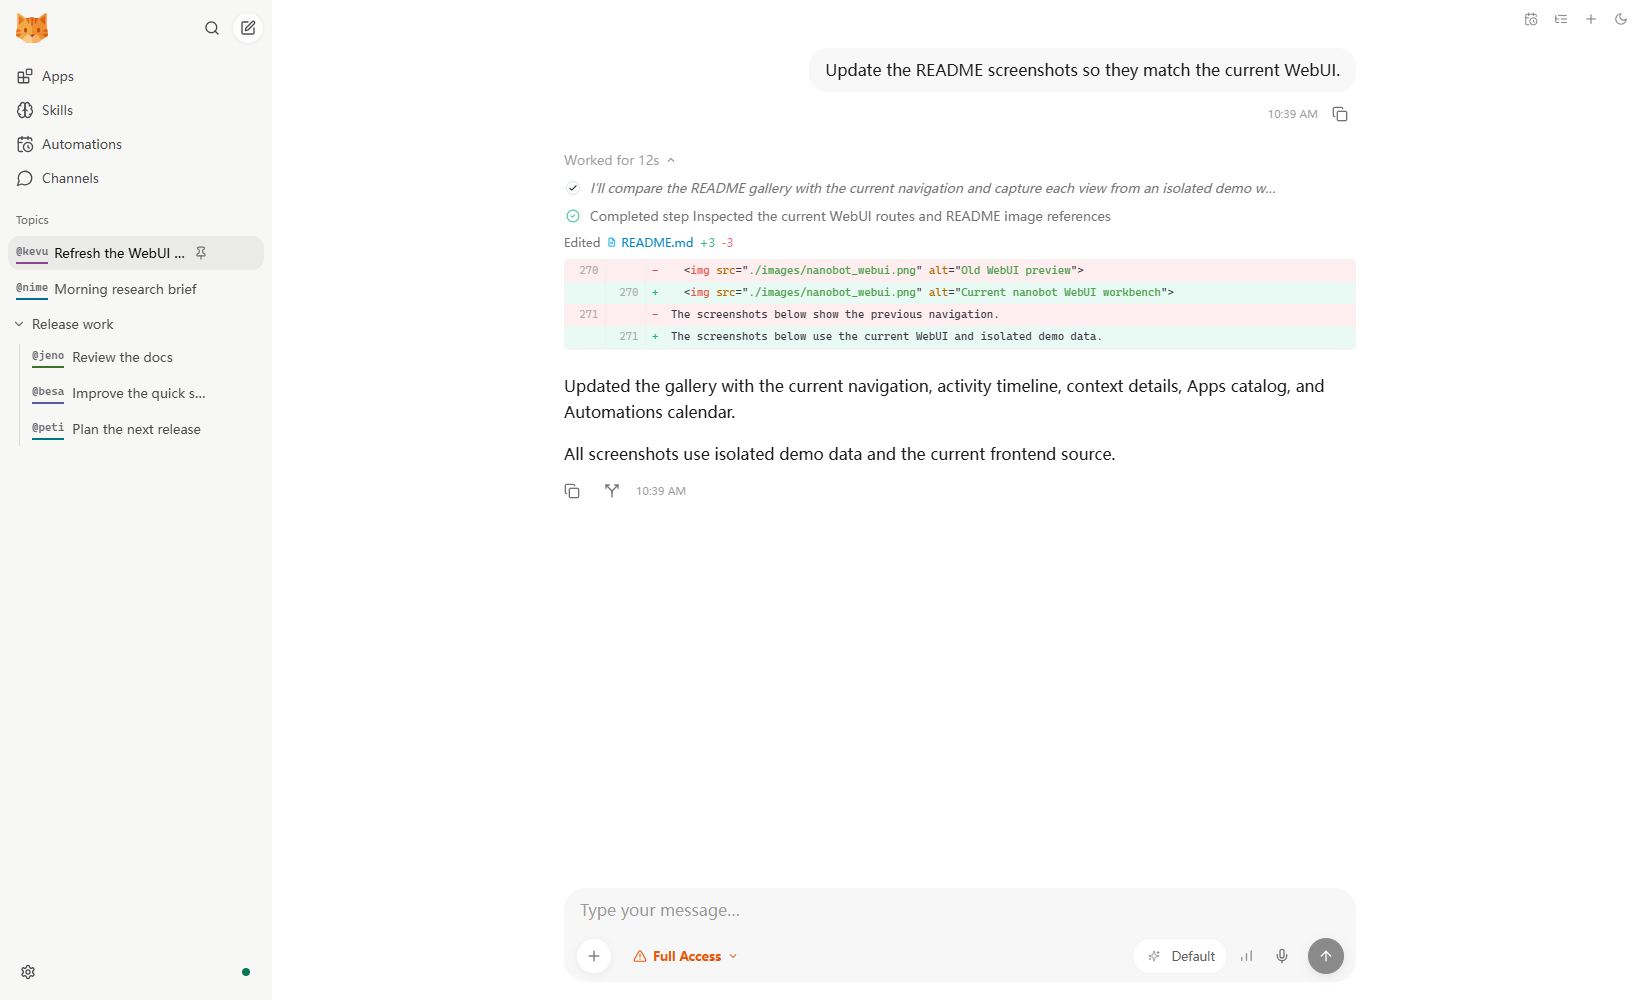
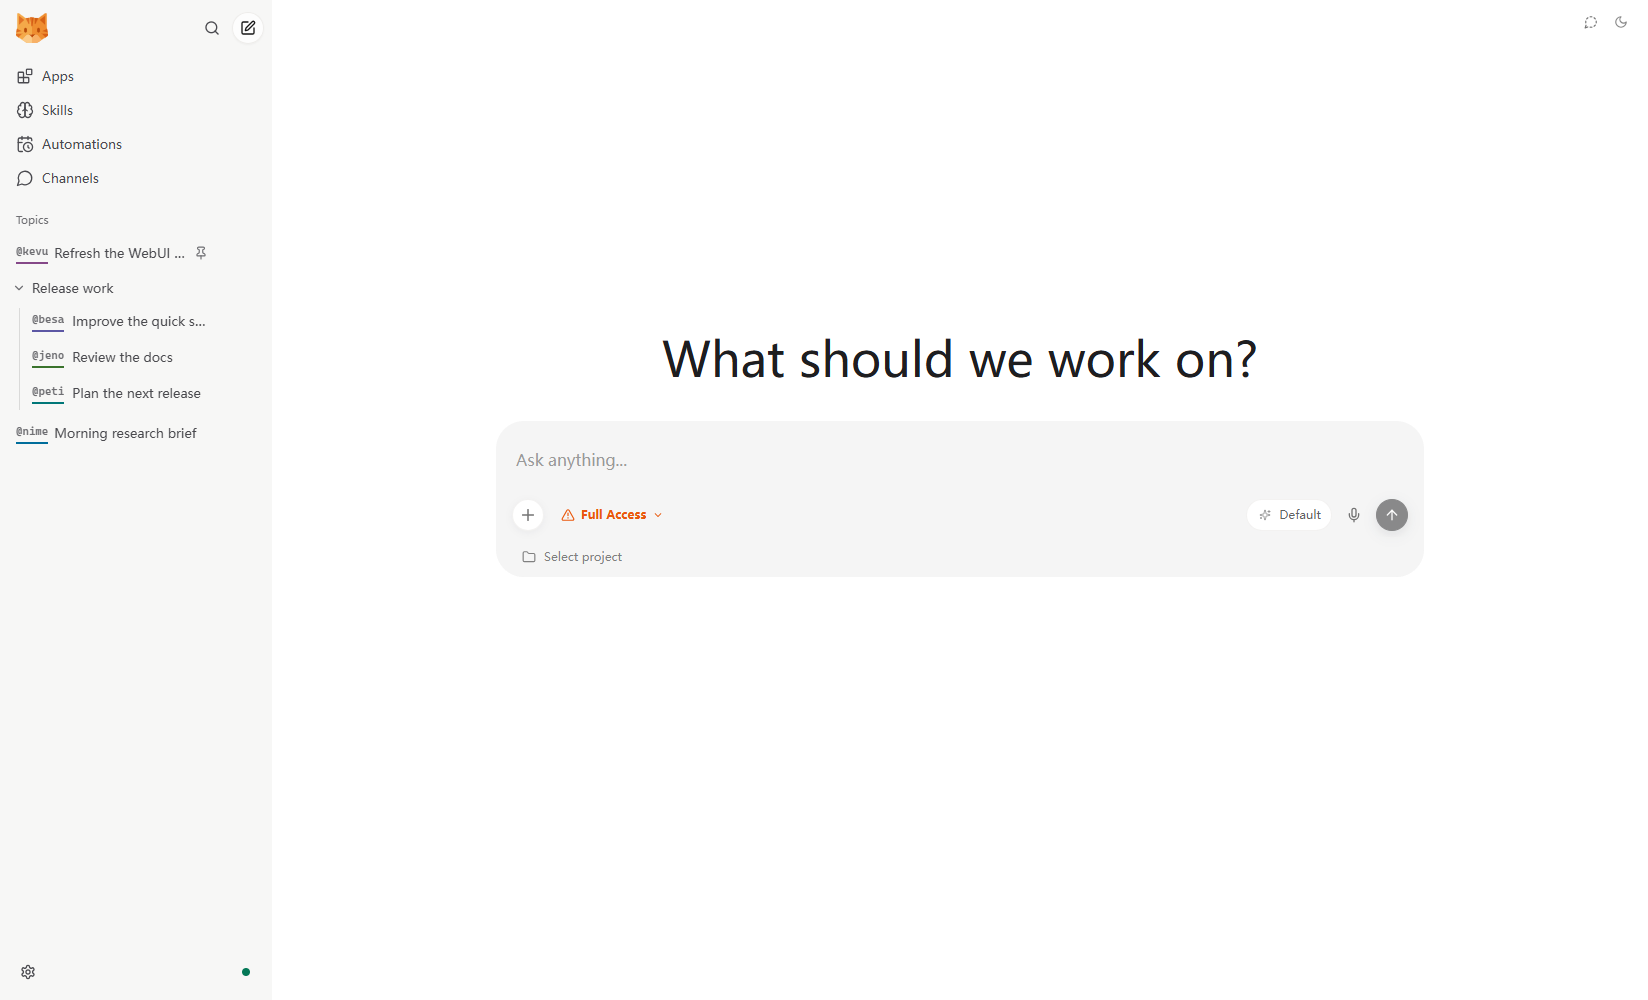
docs: refine README WebUI captures

diff --git a/README.md b/README.md
@@ -269,7 +269,7 @@ The screenshots below use example conversations, illustrative token counts, and 
 
 <p align="center">
   <a href="./images/nanobot_webui-source.png">
-    <img src="./images/nanobot_webui.png" alt="nanobot WebUI conversation with sidebar topics, expanded agent activity, an inline diff, and composer controls" width="900">
+    <img src="./images/nanobot_webui.png" alt="nanobot WebUI new-topic screen with the hero composer, workspace access, project, and model controls" width="900">
   </a>
 </p>
 
